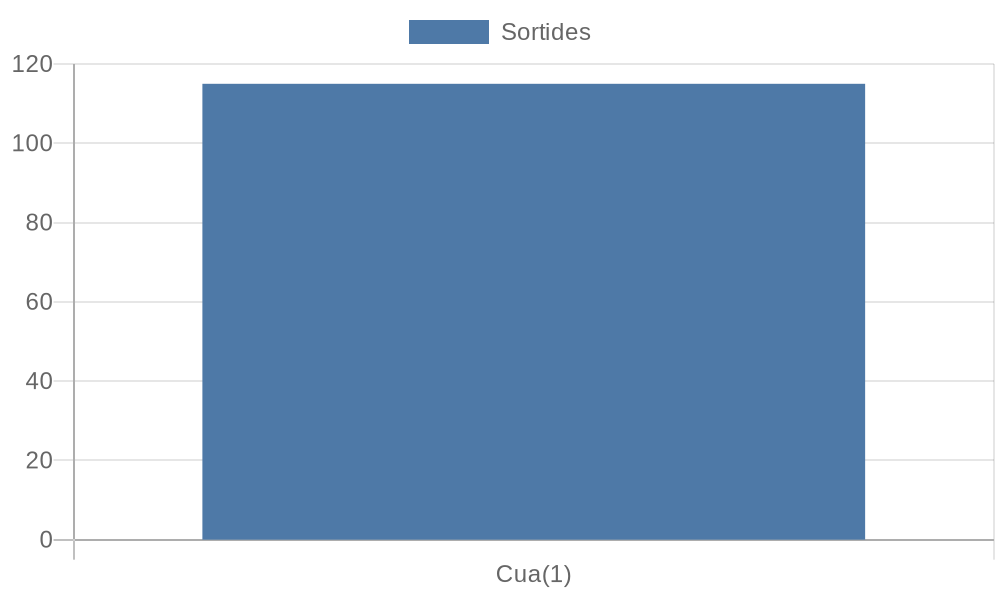
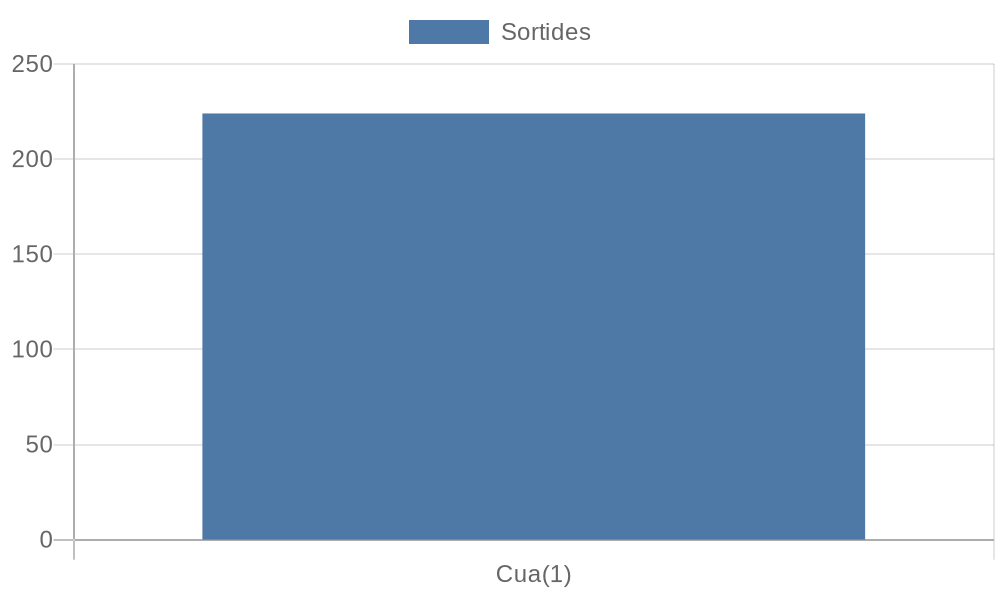
Afegeix els estadistics de la sortida en pantalla

diff --git a/Assets/Scripts/Objectes/SortidaScript.cs b/Assets/Scripts/Objectes/SortidaScript.cs
@@ -27,6 +27,7 @@ public class SortidaScript : LlibreriaObjectes
     public override void IniciaSimulacio(){
         nEntitatsDestruides = 0;
         tempsEntreEntitats = new List<double>();
+        etiqueta.text = transform.name + "\n";
     }
 
     public override void RepEntitat(GameObject entitat, GameObject objecteLlibreria)
@@ -58,6 +59,8 @@ public class SortidaScript : LlibreriaObjectes
     {
         nEntitatsDestruides = 0;
         tempsEntreEntitats = new List<double>();
+        etiqueta.text = transform.name + "\n";
+
     }
 
     new public int CercaDisponible(){   
@@ -98,7 +101,15 @@ public class SortidaScript : LlibreriaObjectes
         eC.GeneraEstadistic(0, nEntitatsEstadistic, etiquetes, "Sortides",nomImatge);
     }
 
-    public override void ActualizaEstadistics(){}
+    public override void ActualizaEstadistics(){
+        string estadistics = "Output: " + nEntitatsDestruides +"\n";
+        float tempsActual = (transform.parent.GetComponent<MotorSimuladorScript>().ObteTempsActual());
+        
+        etiqueta.text = transform.name + "\n";
+        if (nEntitatsDestruides != 0) estadistics += "Temps mig entitats destruides: " + (tempsActual/(nEntitatsDestruides)) +"\n";
+
+        etiqueta.text += estadistics; 
+    }
 
     //////////////////////////////////////////////////////////////////////
     //                                                                  //

diff --git a/Assets/Scripts/Objectes/ProcessadorScript.cs b/Assets/Scripts/Objectes/ProcessadorScript.cs
@@ -319,6 +319,7 @@ public class ProcessadorScript : LlibreriaObjectes, ITractarEsdeveniment
         nomImatge = "Output"+gameObject.transform.name;
         eC.GeneraEstadistic(0, nEntitatsEstadistic, etiquetes, "Sortides",nomImatge);
     }
+    
     public override void ActualizaEstadistics(){
         string estadistics = "Output: " + nEntitatsEnviades +"\n";
         float tempsActual = (transform.parent.GetComponent<MotorSimuladorScript>().ObteTempsActual());
